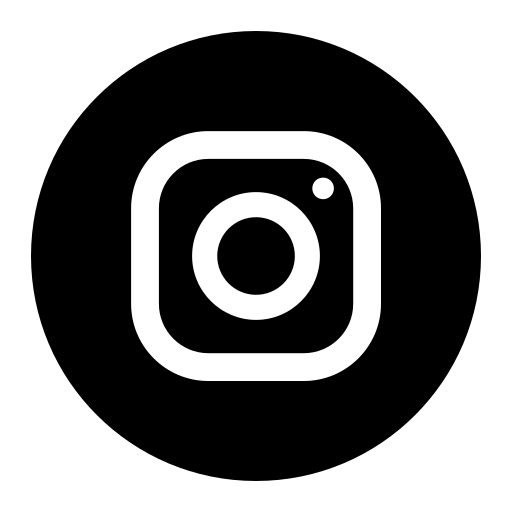
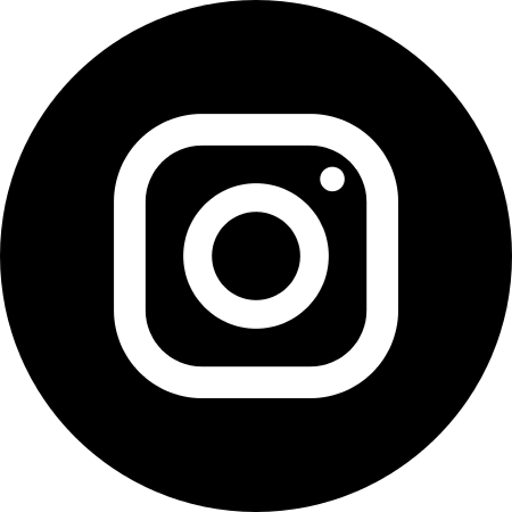
add hovers for social pictogramms

diff --git a/css/style.css b/css/style.css
@@ -18,15 +18,47 @@ body {
 }
 
 .social-list {
-  min-width: 235px;
+  /* min-width: 235px; */
   padding: 0 35px;
   display: flex;
-  flex-direction: row;
-  justify-content: space-between;
+  /* flex-direction: row; */
+  /* justify-content: space-between; */
+}
+
+.social-list-item {
+  margin-right: 15px;
+}
+
+.social-list-item:last-child {
+  margin-right: 0;
 }
 
 .social-list-img {
   width: 40px;
+}
+
+.social-list-item {
+  width: 40px;
+  height: 40px;
+  background-size: 40px;
+  background-position: center center;
+  background-repeat: no-repeat;
+}
+
+.social-list-item-vk {
+  background-image: url(../img/socials/vk_white.png);
+}
+
+.social-list-item-vk:hover {
+  background-image: url(../img/socials/vk_hover.png);
+}
+
+.social-list-item-inst {
+  background-image: url(../img/socials/instagram_white.png);
+}
+
+.social-list-item-inst:hover {
+  background-image: url(../img/socials/instagram_hover.png);
 }
 
 .menu-list {
@@ -76,6 +108,9 @@ body {
 
 .section-sidebar {
   margin-right: 30px;
+  display: flex;
+  flex-direction: column;
+  align-items: center;
 }
 
 .cantainer-author {

diff --git a/index.html b/index.html
@@ -20,14 +20,11 @@
         <div class="sidebar">
           <img class="logo" src="./img/ivo_horiz.png" alt="ИВО">
           <ul class="social-list list-unstyled pt-3">
-            <li class="social-list-item inst">
-              <a href="#"><img class="social-list-img" src="./img/socials/instagram_white.png" alt=""></a>
+            <li class="social-list-item social-list-item-inst">
+              <a href="https://instagram.com/ivo_kuznetskiy?igshid=YmMyMTA2M2Y="></a>
             </li>
-            <li class="social-list-item vk">
-              <a href="#"><img class="social-list-img" src="./img/socials/vk_white.png" alt=""></a>
-            </li>
-            <li class="social-list-item telegramm">
-              <a href="#"><img class="social-list-img" src="./img/socials/telegram_white.png" alt=""></a>
+            <li class="social-list-item social-list-item-vk">
+              <a href="https://vk.com/ivo_kuznetskiy"></a>
             </li>
           </ul>
         </div>
